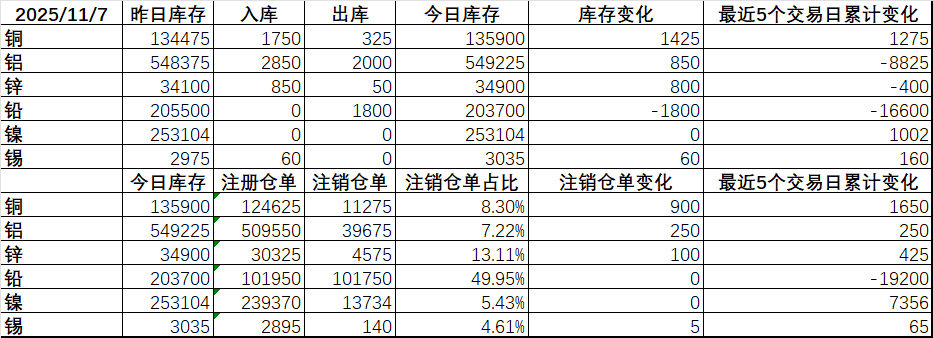
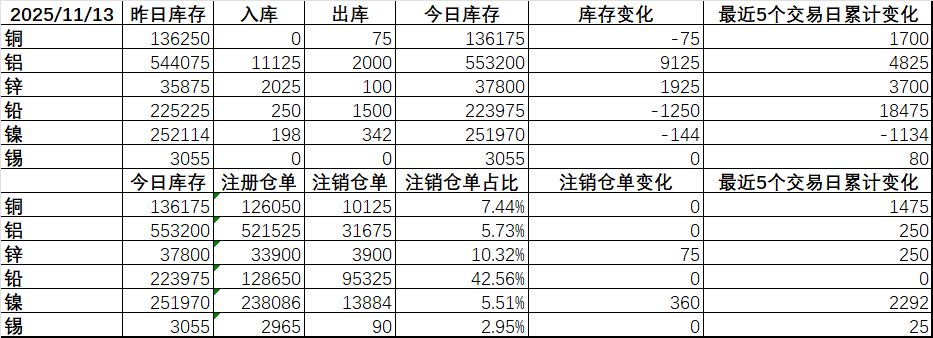
LAPTOP-KRS16UJL 2025-11-16:23:39:56

diff --git a/锌分析20251109.md b/锌分析20251109.md
@@ -2,15 +2,15 @@
 
 
 - 策略：<font color = red>做空LME3050-3100建仓，目标2800以内。加工费（**内贸持续下降**，**外贸本周有所下调**）但冶炼利润足够（理论测算+1900每吨，本周利润较上周变化不大，主要因为硫酸价格上涨对冲加工费走低），LME结构回落到100b左右震荡，国内据了解已经有2wt出口排单，本周看到LME少量交仓开始体现，中期看海外冶炼边际复产LME低库存有望解决，**目前避免仓位过大，等待LME结构回平后加仓**。</font>年内低点看到$2500以内，内盘20000以内，安泰科预计明年供应+30w，需求+20w。
-- 主要矛盾：目前加工费进入盘整阶段，目前矿过剩传导到锭子过剩，现阶段港口锌精矿库存高于往年同期，冶炼厂原料库存也已经偏高，国内库存开始逆季节性累库：**考虑到绝对价格和加工费相关性最强（从精矿库存看加工费还有1000-1500上行空间？未必，目前副产品收益已经替代加工费成为收益来源），海外加工费120美金开始有冶炼复产利润驱动。**根据项目计划明年锌矿增产50w以上，全球消费持平。
+- 主要矛盾：目前加工费进入盘整阶段，目前矿过剩传导到锭子过剩，现阶段港口锌精矿库存高于往年同期，冶炼厂原料库存也已经偏高，国内库存开始逆季节性累库：**考虑到绝对价格和加工费相关性最强，海外加工费120美金开始有冶炼复产利润驱动。
 
-- - **国内加工费出现边际回落，目前国产TC最高3400到厂，3200附近是主流成交区间，2000加工费在300硫酸下（具备较强综合回收能力的大厂）现金流利润打平，小厂3000打平，因此目前加工费仅在锌价快速下跌时期冶炼产量扰动概率大，震荡下行期间扰动小。产量从25年5月份之后开始同比开始转正（核心关注国内库存绝对水平达到去年同期水平的时间点，预计是八月底，已经兑现）。
+- - **国内加工费出现边际回落，目前国产TC最高2800到厂，2600附近是主流成交区间，2000加工费在300硫酸下（具备较强综合回收能力的大厂）现金流利润打平，小厂3000打平，因此目前加工费仅在锌价快速下跌时期冶炼产量扰动概率大，震荡下行期间扰动小。产量从25年5月份之后开始同比开始转正（核心关注国内库存绝对水平达到去年同期水平的时间点，预计是八月底，已经兑现）。
 
  
-- 周度数据更新：<font color = red>**本周去库-3k，去库基本符合季节性，市场上传未来两个月合计2w吨出口；LME库存-0.4k，本周有少量交仓体现**</font>
+- 周度数据更新：<font color = red>**本周去库-3k，去库基本符合季节性，市场上传未来两个月合计2w吨出口；LME库存+2k，本周有2k交仓体现**</font>
 - - **锌精矿港口库存环比+2w至26.8w，同比+9w，连续降库意味着检修后复产**。
 - - 海关数据显示1-9月进口锌精矿来源国：俄罗斯和刚果均有流入，新项目兑现增量：六月锌精矿进口环比下降明显，但是考虑到7月港口库存增加，预计是进口节奏问题。
-- - **SMM国产TC 下调十一月（月度）-650至3000；<font color = red>SMM周度tc-200至2650；SMM进口TC-4至98。**</font>
+- - **SMM国产TC 下调十一月（月度）-650至3000；<font color = red>SMM周度tc-50至2600，但是成交区域间不平衡，低加工费成交主要在陕西等内陆地区；SMM进口TC-14至83。**</font>
 - - LME锌库存-3k，新增注销仓单+0k，**本周看到少量交仓体现**。
 - - **镀锌板卷开工率周环比-0.9%至62.7%，成品库存去化不及季节性*
 
